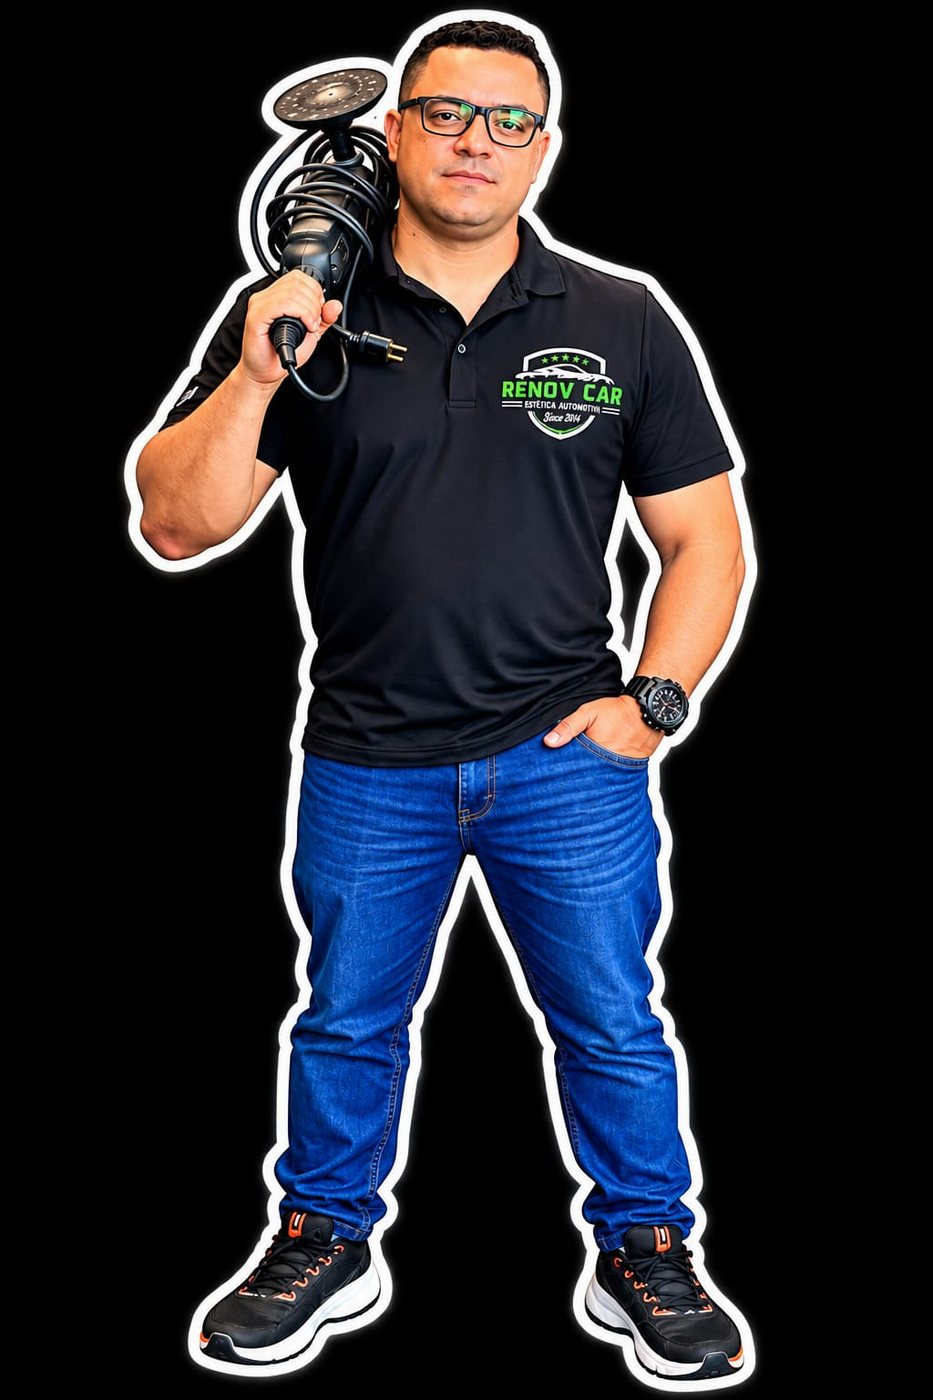
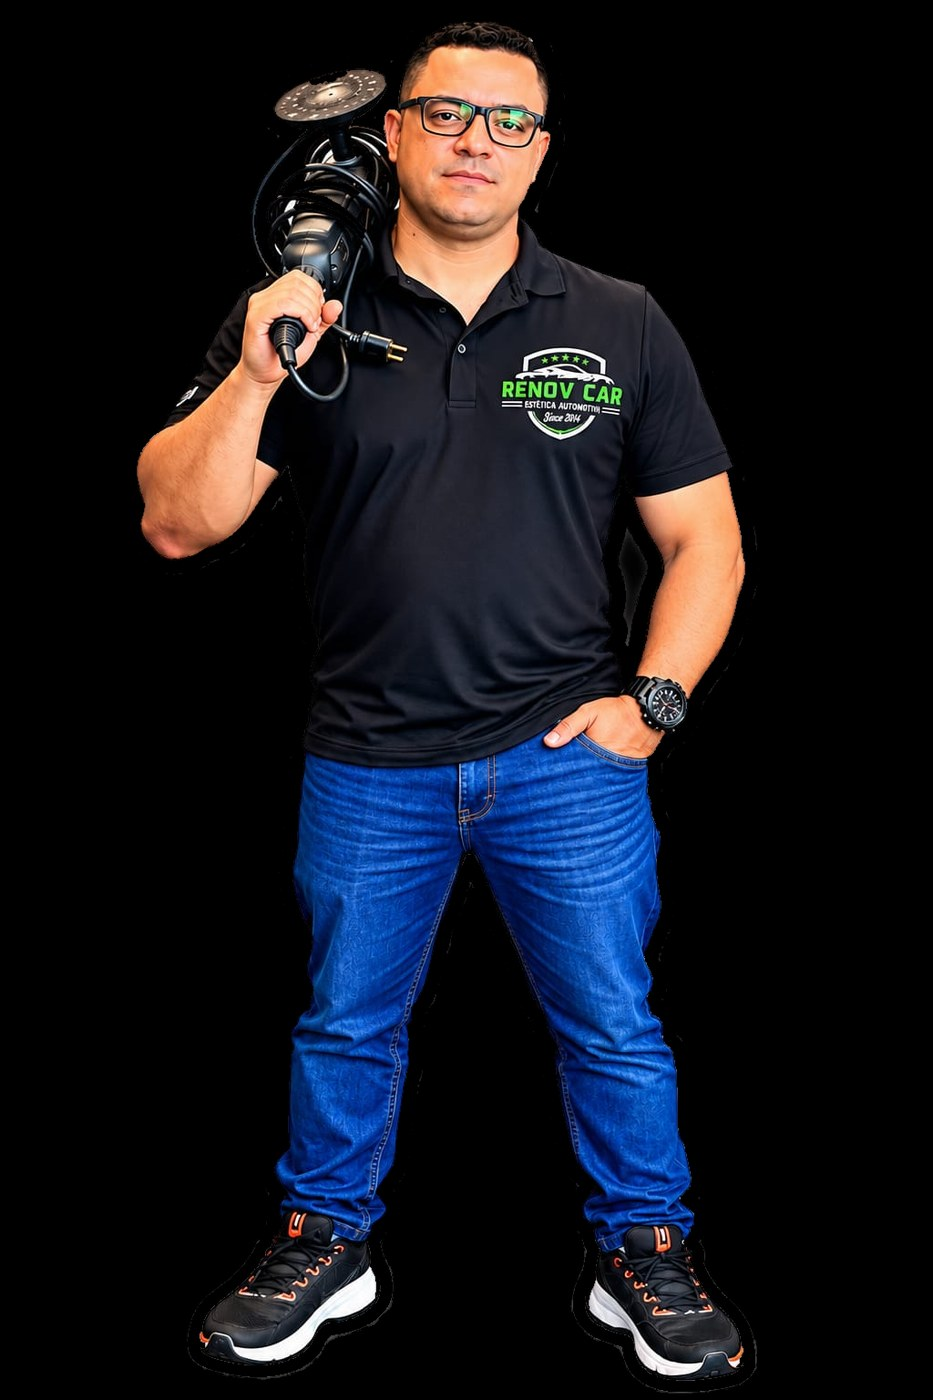
Foto do Alcino sem contorno branco; higienização a partir de R$ 400

diff --git a/index.html b/index.html
@@ -506,7 +506,7 @@ const GRUPOS = [
    desc:"A higienização interna remove ácaros, bactérias, fungos, odores e sujeiras profundas de bancos, carpetes, teto e painéis, deixando o ambiente do seu carro mais limpo, saudável, agradável e valorizado. Também já vem inclusa em todos os pacotes de lavagem.",
    inc:["Bancos","Carpetes","Teto","Painéis","Portas","Porta-malas"],
    ben:["Elimina ácaros e bactérias","Remove odores","Limpeza profunda de bancos e carpetes","Ambiente mais saudável","Valoriza seu veículo"],
-   ops:[{id:"hig", nm:"Higienização interna", p:null}]}
+   ops:[{id:"hig", nm:"Higienização interna", p:400, ap:true}]}
  ]}
 ];
 const PI = {PP:0, PM:1, PG:2};
